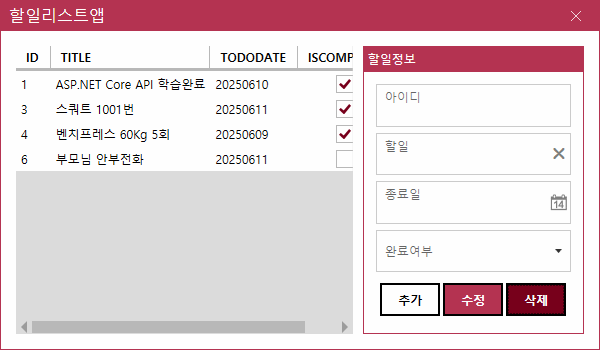
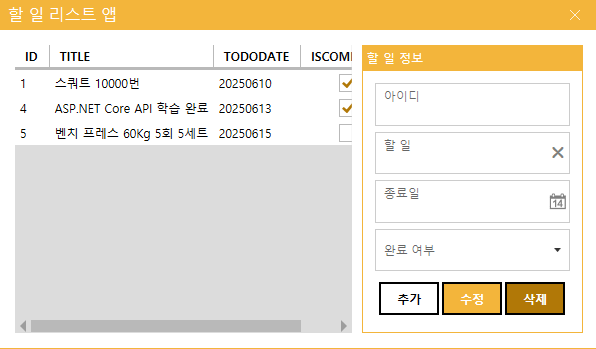
day12 commit

Changed region(s): [[0.0, 0.0, 1.0, 1.0], [0.0302, 0.2865, 0.0604, 0.3438], [0.4832, 0.9169, 0.5134, 0.9456]]

diff --git a/day12/Day12Study/WpfTodoListApp/MainWindow.xaml b/day12/Day12Study/WpfTodoListApp/MainWindow.xaml
@@ -17,9 +17,9 @@
         </Grid.ColumnDefinitions>
         <!-- UI 구성 -->
         <DataGrid x:Name="GrdTodoItems"
-                  Grid.Row="0" Grid.Column="0"
-                  Margin="10" Background="Gainsboro" IsReadOnly="True"
-                  MouseDoubleClick=""></DataGrid>
+                  Grid.Row="0" Grid.Column="0" 
+                  Margin="5" Background="Gainsboro" IsReadOnly="True"
+                  SelectionChanged="GrdTodoItems_SelectionChanged"></DataGrid>
         <GroupBox Grid.Row="0" Grid.Column="1" Margin="5" Header="할 일 정보">
             <Grid Margin="5">
                 <Grid.RowDefinitions>
@@ -31,40 +31,40 @@
                 </Grid.RowDefinitions>
                 <!-- UI 구성 -->
                 <TextBox Grid.Row="0" x:Name="TxtId"
-                             Margin="3" 
-                             mah:TextBoxHelper.AutoWatermark="True"
-                             mah:TextBoxHelper.Watermark="아이디"
-                             mah:TextBoxHelper.UseFloatingWatermark="True"
-                             IsReadOnly="True" />
+                         Margin="3" 
+                         mah:TextBoxHelper.AutoWatermark="True"
+                         mah:TextBoxHelper.Watermark="아이디"
+                         mah:TextBoxHelper.UseFloatingWatermark="True"
+                         IsReadOnly="True" />
                 <TextBox Grid.Row="1" x:Name="TxtTitle"
-                             Margin="3" 
-                             mah:TextBoxHelper.AutoWatermark="True"
-                             mah:TextBoxHelper.Watermark="할 일"
-                             mah:TextBoxHelper.UseFloatingWatermark="True"
-                             mah:TextBoxHelper.ClearTextButton="True" />
-                <mah:DateTimePicker Grid.Row="2" x:Name="DtpTodoDate"
-                                             Margin="3"
-                                             mah:TextBoxHelper.AutoWatermark="True"
-                                             mah:TextBoxHelper.Watermark="종료일"         
-                                             mah:TextBoxHelper.UseFloatingWatermark="True" />
+                         Margin="3" 
+                         mah:TextBoxHelper.AutoWatermark="True"
+                         mah:TextBoxHelper.Watermark="할 일"
+                         mah:TextBoxHelper.UseFloatingWatermark="True"
+                         mah:TextBoxHelper.ClearTextButton="True"/>
+                <DatePicker Grid.Row="2" x:Name="DtpTodoDate"
+                            Margin="3" 
+                            mah:TextBoxHelper.AutoWatermark="True"
+                            mah:TextBoxHelper.UseFloatingWatermark="True"
+                            mah:TextBoxHelper.Watermark="종료일" />
                 <ComboBox Grid.Row="3" x:Name="CboIsComplete"
-                                 Margin="3"
-                                 DisplayMemberPath="Key"
-                                 SelectedValuePath="Value"
-                                 mah:TextBoxHelper.AutoWatermark="True"
-                                 mah:TextBoxHelper.Watermark="완료 여부"         
-                                 mah:TextBoxHelper.UseFloatingWatermark="True">
-                </ComboBox>
+                          Margin="3"
+                          DisplayMemberPath="Key"
+                          SelectedValuePath="Value"
+                          mah:TextBoxHelper.AutoWatermark="True"
+                          mah:TextBoxHelper.Watermark="완료 여부"
+                          mah:TextBoxHelper.UseFloatingWatermark="True"></ComboBox>
                 <StackPanel Grid.Row="4" Margin="3" Orientation="Horizontal" HorizontalAlignment="Center">
-                    <Button x:Name="BtnInsert" Content="추가" Width="60" Margin="0, 5, 3, 5"
-                               Style="{StaticResource MahApps.Styles.Button.Square}"
-                               Click="BtnInsert_Click"/>
-                    <Button x:Name="BtnUpdate" Content="수정" Width="60" Margin="0, 5, 3, 5"
-                               Style="{StaticResource MahApps.Styles.Button.Square.Accent}" />
-                    <Button x:Name="BtnDelete" Content="삭제" Width="60" Margin="0, 5, 0, 5"
-                               Style="{StaticResource MahApps.Styles.Button.Square.Highlight}" />
+                    <Button x:Name="BtnInsert" Content="추가" Width="60" Margin="0,5,3,5"
+                            Style="{StaticResource MahApps.Styles.Button.Square}"
+                            Click="BtnInsert_Click"/>
+                    <Button x:Name="BtnUpdate" Content="수정" Width="60" Margin="0,5,3,5"
+                            Style="{StaticResource MahApps.Styles.Button.Square.Accent}"
+                            Click="BtnUpdate_Click"/>
+                    <Button x:Name="BtnDelete" Content="삭제" Width="60" Margin="0,5,0,5"
+                            Style="{StaticResource MahApps.Styles.Button.Square.Highlight}"
+                            Click="BtnDelete_Click"/>
                 </StackPanel>
-
             </Grid>
         </GroupBox>
     </Grid>

diff --git a/day12/Day12Study/WpfTodoListApp/MainWindow.xaml.cs b/day12/Day12Study/WpfTodoListApp/MainWindow.xaml.cs
@@ -2,7 +2,6 @@
 using MahApps.Metro.Controls.Dialogs;
 using System.Net.Http;
 using System.Net.Http.Headers;
-using System.Threading.Tasks;
 using System.Windows;
 using WpfTdoListApp.Models;
 using WpfTodoListApp.Models;
@@ -23,7 +22,7 @@ namespace WpfTodoListApp
             InitializeComponent();
         }
 
-        private void MetroWindow_Loaded(object sender, RoutedEventArgs e)
+        private void MetroWindow_Loaded(object sender, System.Windows.RoutedEventArgs e)
         {
             var comboPairs = new List<KeyValuePair<string, int>>
             {
@@ -48,11 +47,12 @@ namespace WpfTodoListApp
             try  // API 호출
             {
                 // http://localhost:6200/api/TodoItems
-                HttpResponseMessage? response = await client.GetAsync("api/TodoItems");
+                HttpResponseMessage? response = await client.GetAsync("/api/TodoItems");
                 response.EnsureSuccessStatusCode(); // 상태코드 확인
 
                 var items = await response.Content.ReadAsAsync<IEnumerable<TodoItem>>();
                 todoItems.CopyFrom(items);  // ObservableCollection으로 형변환
+                //GrdTodoItems.ItemsSource = items;
 
                 // 성공 메시지
                 await this.ShowMessageAsync("API 호출", "로드 성공!");
@@ -65,7 +65,7 @@ namespace WpfTodoListApp
         }
 
         // async시 Task가 리턴 값이지만 버튼 클릭 이벤트 메서드와 연결 시 Task -> void로 변경해줘야 연결 가능
-        private async void BtnInsert_Click(object sender, System.Windows.RoutedEventArgs e)
+        private async void BtnInsert_Click(object sender, RoutedEventArgs e)
         {
             try
             {
@@ -84,12 +84,93 @@ namespace WpfTodoListApp
                 var response = await client.PostAsJsonAsync("/api/TodoItems", todoItem);
                 response.EnsureSuccessStatusCode();
 
-                GetDatas(); 
+                GetDatas();
+                // 입력양식 초기화
+                InitControls();
             }
             catch (Exception ex)
             {
                 // 예외 메시지
                 await this.ShowMessageAsync("API 호출 에러", ex.Message);
+            }
+        }
+        private async void GrdTodoItems_SelectionChanged(object sender, System.Windows.Controls.SelectionChangedEventArgs e)
+        {
+            try
+            {
+                //await this.ShowMessageAsync("클릭", "클릭확인");
+                var Id = (GrdTodoItems.SelectedItem as TodoItem)?.Id; // ?. -> Null일 생겨도 예외발생안함
+                if (Id == null) return;  // 이 구문을 만나야 아래 로직이 실행안됨
+
+                // /api/TodoItems/{Id} GET 메서드 API 호출
+                var response = await client.GetAsync($"/api/TodoItems/{Id}");
+                response.EnsureSuccessStatusCode();
+
+                var item = await response.Content.ReadAsAsync<TodoItem>();
+
+                TxtId.Text = item.Id.ToString();
+                TxtTitle.Text = item.Title.ToString();
+                DtpTodoDate.SelectedDate = DateTime.Parse(item.TodoDate.Insert(4, "-").Insert(7, "-"));
+                CboIsComplete.SelectedValue = item.IsComplete;
+            }
+            catch (Exception ex)
+            {
+                // 예외메시지
+                await this.ShowMessageAsync("API호출 에러", ex.Message);
+            }
+        }
+
+        private async void BtnUpdate_Click(object sender, System.Windows.RoutedEventArgs e)
+        {
+            try
+            {
+                var todoItem = new TodoItem
+                {
+                    Id = Convert.ToInt32(TxtId.Text),
+                    Title = TxtTitle.Text,
+                    TodoDate = Convert.ToDateTime(DtpTodoDate.SelectedDate).ToString("yyyyMMdd"),
+                    IsComplete = Convert.ToBoolean(CboIsComplete.SelectedValue)
+                };
+
+                var response = await client.PutAsJsonAsync($"/api/TodoItems/{todoItem.Id}", todoItem);
+                response.EnsureSuccessStatusCode();
+
+                GetDatas();
+                // 입력양식 초기화
+                InitControls();
+            }
+            catch (Exception ex)
+            {
+                // 예외메시지
+                await this.ShowMessageAsync("API호출 에러", ex.Message);
+            }
+        }
+
+        private void InitControls()
+        {
+            // 입력양식 초기화
+            TxtId.Text = string.Empty;
+            TxtTitle.Text = string.Empty;
+            DtpTodoDate.Text = string.Empty;
+            CboIsComplete.Text = string.Empty;
+        }
+
+        private async void BtnDelete_Click(object sender, System.Windows.RoutedEventArgs e)
+        {
+            try
+            {
+                var Id = Convert.ToInt32(TxtId.Text); // 삭제는 Id만 파라미터로 전송
+
+                var response = await client.DeleteAsync($"/api/TodoItems/{Id}");
+                response.EnsureSuccessStatusCode();
+
+                GetDatas();
+                InitControls();
+            }
+            catch (Exception ex)
+            {
+                // 예외메시지
+                await this.ShowMessageAsync("API호출 에러", ex.Message);
             }
         }
     }

diff --git a/day12/Day12Study/WebApiApp01/Models/AppDbContext.cs b/day12/Day12Study/WebApiApp01/Models/AppDbContext.cs
@@ -13,6 +13,8 @@ namespace WebApiApp01.Models
         }
 
         // 테이블 연결
+        // 클래스보다 뒤 객체변수명하고 테이블하고 동일하게 생성필요
+        // MySQL에 TodoItems 이름으로 테이블이 생성되고 연결.
         public DbSet<TodoItem> TodoItems { get; set; }
     }
 }

diff --git a/day12/Day12Study/WpfTodoListApp/Models/TodoItem.cs b/day12/Day12Study/WpfTodoListApp/Models/TodoItem.cs
@@ -1,5 +1,5 @@
 using System.ComponentModel.DataAnnotations;
-using System.ComponentModel.DataAnnotations.Schema;
+using System.ComponentModel.DataAnnotations.Schema;  // DB스키마 정의 클래스
 
 namespace WpfTdoListApp.Models
 {
